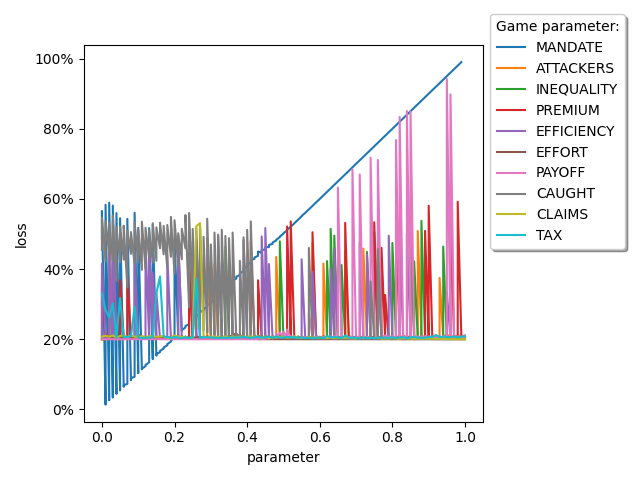
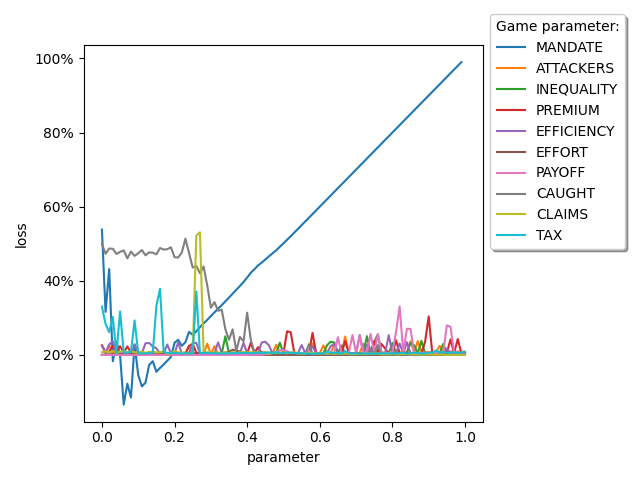
averages 10 runs. need to do more runs though

diff --git a/cpp-games/scripts/one_way_sensitivity.py b/cpp-games/scripts/one_way_sensitivity.py
@@ -17,19 +17,26 @@ for p in params:
 df['d_init_original'] = df['d_init'] / (1 - df['MANDATE'])
 
 df['loss'] = 1 - df['d_end'] / df['d_init_original']
-print(df[['MANDATE', 'd_init', 'd_init_original', 'd_end', 'loss']])
+# print(df[['MANDATE', 'd_init', 'd_init_original', 'd_end', 'loss']])
+
 
 # print(df)
-# df = df.groupby(params)['loss'].mean()
+groups = params + ['target']
+# print(groups)
+df = df.groupby(groups, as_index=False).mean()
 
-print(df)
+# print(df)
+
+# print(df.columns)
+# print(df[df['target'] == 'MANDATE'])
+
 
 
 fig, ax = plt.subplots()
 
 
 for p in params:
-    print(p)
+    # print(p)
     yvals = df.loc[df['target'] == p, 'loss'].values
     xvals = df.loc[df['target'] == p, p].values
 
